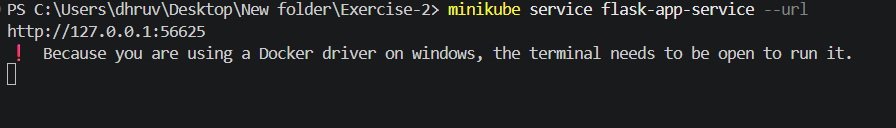
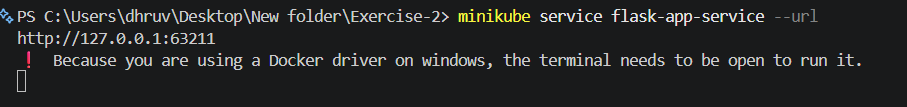
completed

Changed region(s): [[0.0, 0.0, 0.9688, 0.5047], [0.0, 0.4766, 0.9688, 0.8692]]

diff --git a/Exercise-2/readme.md b/Exercise-2/readme.md
@@ -22,7 +22,7 @@ minikube status
 kubectl cluster-info
 ```
 
-Minikube pulled the base control-plane images, created the cluster with 4 CPUs and 4096 MB of RAM, and initialized Kubernetes v1.35.1 with the CNI configured. The status check confirmed the control plane, kubelet, and apiserver were all running, and `kubectl cluster-info` showed the cluster reachable at its local HTTPS endpoint (e.g. `https://127.0.0.1:53240`).
+Minikube pulled the base control-plane images, created the cluster with 4 CPUs and 4096 MB of RAM, and initialized Kubernetes v1.35.1 with the CNI configured. The status check confirmed the control plane, kubelet, and apiserver were all running, and `kubectl cluster-info` showed the cluster reachable at its local HTTPS endpoint (e.g. `https://127.0.0.1:63211`).
 
 ![Minikube Start and Status](screenshots/image.png)
 
